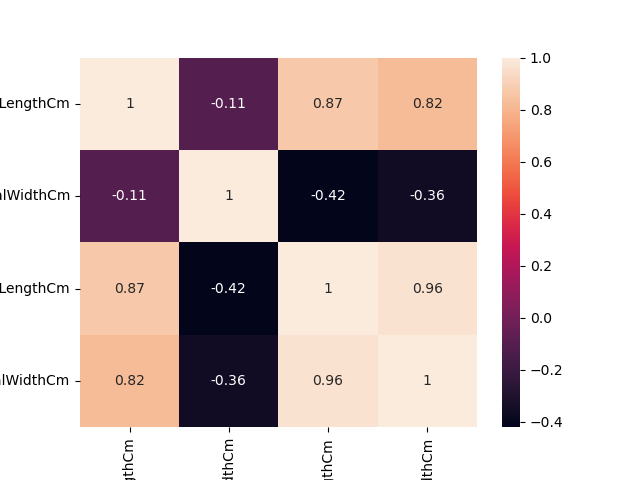
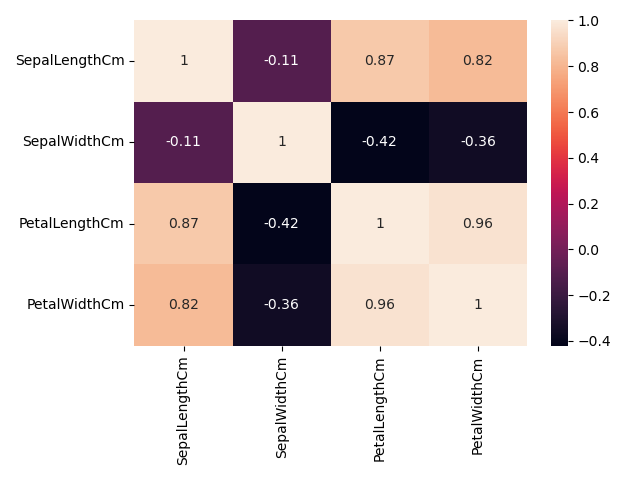
Fixed error where heatmap cut off text

diff --git a/analysis.py b/analysis.py
@@ -257,6 +257,7 @@ plt.close()
 
 # Create heatmap based on pairwise correlations
 sns.heatmap(df.corr(method='pearson'), annot=True)
+plt.tight_layout()
 plt.savefig('correlation_heatmap.png')
 plt.close()
 

diff --git a/README.md b/README.md
@@ -68,6 +68,7 @@ The above kernel density estimate plots portray the variation in data similarly 
 Pairwise correlations can also be used to see if a change in one variable is likely to be a predictor of a correlated change in another variable. Below correlation heatmap shows the degree of correlation between variables:
 ![Correlation Heatmap](correlation_heatmap.png)
 
+
 [^1]: https://archive.ics.uci.edu/ml/datasets/iris
 [^2]: https://www.geeksforgeeks.org/exploratory-data-analysis-on-iris-dataset/
 [^3]: https://medium.com/analytics-vidhya/exploratory-data-analysis-iris-dataset-4df6f045cda
